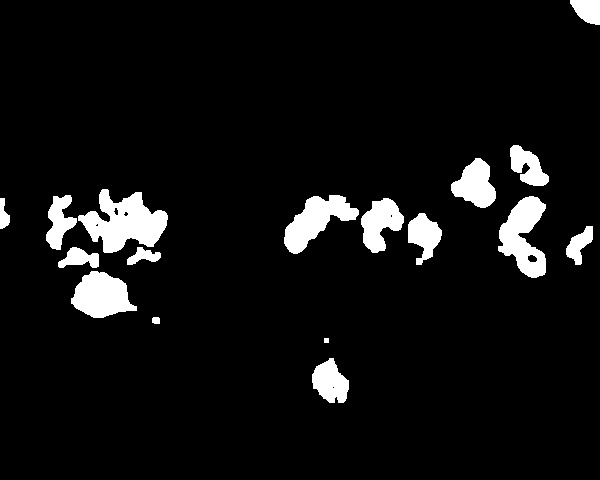
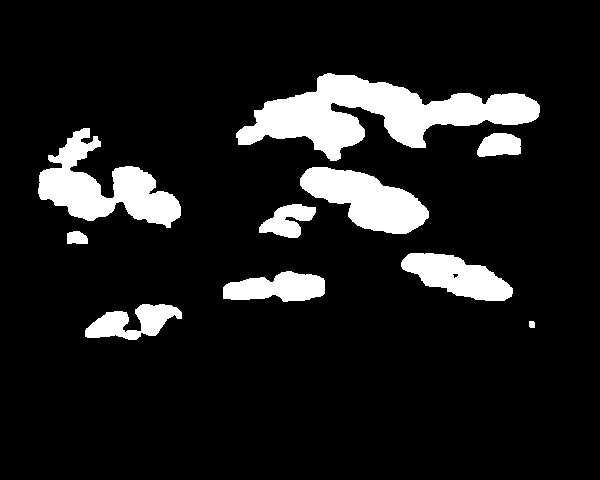
Merge git with virtual machine CV files

diff --git a/machine_learning/object_det/find_object.py b/machine_learning/object_det/find_object.py
@@ -1,4 +1,5 @@
 # Identify contours within image, and classify individual contours based on LBP texture analysis
+# Implementation: python3 find_object.py -i ~/gitrepo/image_proc/mache5.JPEG
 # Import the necessary packages
 from texture_class import LocalBinaryPatterns
 import argparse
@@ -29,7 +30,6 @@ else:
 # Resize image 
 dim = (WIDTH, HEIGHT)
 resized = cv2.resize(original, dim)
-cv2.imshow("Resized Original", resized)
 result = resized.copy()
 
 # Define HSV boundaries for desired color
@@ -46,39 +46,57 @@ red = (0, 0, 255)
 desc = LocalBinaryPatterns(24, 8)
 
 # Apply Gaussian Blur and convert to HSV colorspace
-blurred = cv2.GaussianBlur(resized, (11, 11), 0)
+blurred = cv2.GaussianBlur(result, (11, 11), 0)
 hsv = cv2.cvtColor(blurred, cv2.COLOR_BGR2HSV)
 
 # Apply color mask, with erosion-dilation sequence to eliminate tiny blotches
 masked = cv2.inRange(hsv, greenLower, greenUpper)
 masked = cv2.erode(masked, None, iterations=2)
-masked = cv2.dilate(masked, None, iterations=2)
+masked = cv2.dilate(masked, None, iterations=6)
 
 # Find contours in the masked image 
 contours = cv2.findContours(masked.copy(), cv2.RETR_EXTERNAL, cv2.CHAIN_APPROX_SIMPLE)
 # Parse the contours list to account for varying OpenCV handling methods
 contours = imutils.grab_contours(contours)
 
-# Initialize array for storing contour images
+# Initialize array for storing contour images, centroids, and 
+# classification predictions
 cropped_images = []
+centroids = []
+classifications = []
 
 # Only proceed if at least one countour was found
 if len(contours) > 0:
     
-    for i in range(len(contours)):
+	for i in range(len(contours)):
 		# Create black canvas matching dimensions of the image
-        mask = np.zeros(resized.shape[:2], dtype = "uint8")
-        # Fill in the detected contour in white against black background
-        cv2.drawContours(mask, contours, i, color=(255,255,255),thickness = -1)
-        # Perform bitwise AND to extract image regions within contours
-        bitwiseAnd = cv2.bitwise_and(resized, resized, mask = mask)
-        # Generate and draw a bounding box for the detected contour to be displayed on final result
-        x,y,w,h = cv2.boundingRect(contours[i])
-        cv2.rectangle(result, (x,y), (x+w, y+h), red, 2)
-        # Store the cropped contour image and display
-        # cropped_images.append(bitwiseAnd[y:y+h, x:x+w])
-        cropped_images.append(bitwiseAnd)
-
+		mask = np.zeros(resized.shape[:2], dtype = "uint8")
+		# Fill in the detected contour in white against black background
+		cv2.drawContours(mask, contours, i, color=(255,255,255),thickness = -1)
+		# Perform bitwise AND to extract image regions within contours
+		bitwiseAnd = cv2.bitwise_and(resized, resized, mask = mask)
+		# Generate and draw a bounding box for the detected contour to be displayed on final result
+		x,y,w,h = cv2.boundingRect(contours[i])
+		
+		# Skip bounding boxes measuring less than 20 x 20 pixels
+		if w and h < 20:
+			continue
+		
+		# Otherwise draw a bounding box around the contour and save it
+		# as a separate image			
+		else:
+			cv2.rectangle(result, (x,y), (x+w, y+h), red, 2)
+			# Store the cropped contour image and display
+			# cropped_images.append(bitwiseAnd[y:y+h, x:x+w])
+			cropped_images.append(bitwiseAnd)
+			
+			# Calculate bounding box centroid, adjust to be measured 
+			# from the center of the camera frame, and store coordinates
+			# Positive x-values are to the right of frame centroid
+			# Positive y-values are above frame centroid
+			mid = ((x + w//2) - WIDTH//2, HEIGHT//2 - (y + h//2))
+			# mid = (x + w//2, y + h//2)
+			centroids.append(mid)
 
 else:
     print("No contours found!")
@@ -87,29 +105,33 @@ else:
 # First load the pre-trained texture model
 loaded_model = joblib.load('trained_texturemodel.sav')
 print("[STATUS] Loading trained model...")
-# loop over the extracted image segments
+# loop over the extracted image segments and classify according to texture
 i = 0
 for image in cropped_images:
 	# load the image, convert it to grayscale, describe it,
-	# and classify it
+	# classify it, and log the classification outcome
 	gray = cv2.cvtColor(image, cv2.COLOR_BGR2GRAY)
 	hist = desc.describe(gray)
 	prediction = loaded_model.predict(hist.reshape(1, -1))
-	
+	classifications.append(prediction[0])
 	# display the image and the prediction
-	cv2.putText(image, prediction[0], (10, 30), cv2.FONT_HERSHEY_SIMPLEX,
-		1.0, (0, 0, 255), 3)
-	cv2.imshow("Image", image)
-	cv2.waitKey(0)
+	# cv2.putText(image, prediction[0], (10, 30), cv2.FONT_HERSHEY_SIMPLEX,
+		# 1.0, (0, 0, 255), 3)
+	# cv2.imshow("Image", image)
+	# cv2.waitKey(0)
 
 segmented = cv2.bitwise_and(resized, resized, mask = masked)
 
-# Display final results
+# Display and print final results
 cv2.imshow("Contours", result)
 cv2.imshow("Color masked", masked)
-cv2.imshow("Segmented Image", segmented)
-cv2.imwrite("detected_contours.jpeg", result)
-cv2.imwrite("mask.jpeg", masked)
+#cv2.imshow("Segmented Image", segmented)
+#cv2.imshow("Original Resized", resized)
+print("Number of plants found: {}".format(len(contours)))
+print("Plant locations: {}".format(centroids))
+print("Classifications: {}".format(classifications))	
+# cv2.imwrite("detected_contours.jpeg", result)
+# cv2.imwrite("mask.jpeg", masked)
 cv2.imwrite("segmented_green.jpeg", segmented)
 cv2.waitKey(0)
 
